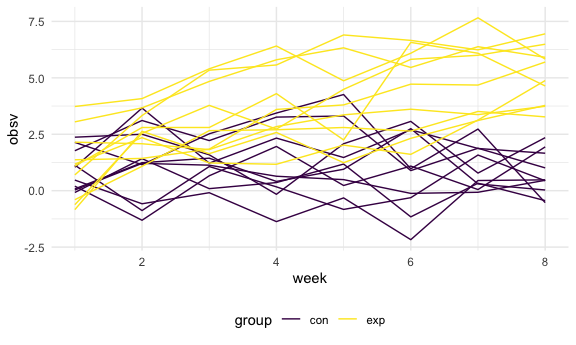
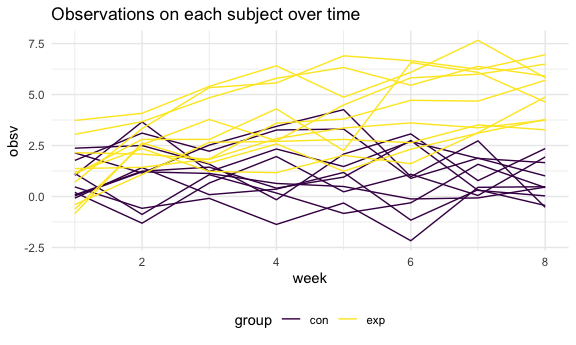
completed p3

diff --git a/p8105_hw5_cks2143.md b/p8105_hw5_cks2143.md
@@ -37,7 +37,7 @@ homicide_df =
     ##   disposition = col_character()
     ## )
 
-**Data exploration**
+**Data exploration.**
 
 ``` r
 aggregate_df = 
@@ -51,7 +51,7 @@ aggregate_df =
 
     ## `summarise()` ungrouping output (override with `.groups` argument)
 
-**Prop test for a single city**
+**Prop test for a single city.**
 
 ``` r
 prop.test(
@@ -65,7 +65,7 @@ prop.test(
     ##      <dbl>     <dbl>    <dbl>     <int>    <dbl>     <dbl> <chr>     <chr>      
     ## 1    0.646      239. 6.46e-54         1    0.628     0.663 1-sample… two.sided
 
-**Iteration**
+**Iteration.**
 
 ``` r
 results_df = 
@@ -139,12 +139,13 @@ lda_tidydf =
     )
 ```
 
-**Spaghetti plot of observations on each subject over time**
+**Spaghetti plot of observations.**
 
 ``` r
 lda_tidydf %>% 
   ggplot(aes(x = week, y = obsv, group = interaction(id, group), color = group)) + 
-    geom_line()
+    geom_line() +
+    labs(title = "Observations on each subject over time")
 ```
 
 <img src="p8105_hw5_cks2143_files/figure-gfm/unnamed-chunk-6-1.png" width="90%" />
@@ -153,3 +154,107 @@ Based on the spaghetti plot, we can observe that observation values for
 the experimental group are generally higher than the control group. The
 experimental group shows some increase in values over time while the
 control group remains relatively stable.
+
+## Problem 3
+
+**Create and run simulation.**
+
+``` r
+sim_ttest = 
+  function(n = 30, mu, sigma = 5) {
+    
+      sim_data = 
+        tibble(
+          x = rnorm(n = 30, mean = mu, sd = sigma)
+        )
+      
+sim_data %>% 
+  t.test() %>% 
+  broom::tidy() %>% 
+  select(estimate, p.value)
+  }
+
+sim_results = 
+  tibble(mu = c(0,1,2,3,4,5,6)) %>%
+  mutate(
+    output_lists = map(.x = mu, ~ rerun(5000, sim_ttest(n = 30, mu = .x))),
+    estimate_df = map(output_lists, bind_rows)
+    ) %>%
+  select(-output_lists) %>% 
+  unnest(estimate_df) %>% 
+  mutate(decision = ifelse(p.value<0.05, "reject", "fail to reject"))
+```
+
+**Plot showing the proportion of times the null was rejected.**
+
+``` r
+plot_power =
+  sim_results %>% 
+  group_by(mu) %>%
+  summarise(
+    n = n(),
+    reject = sum(p.value < 0.05)/n) %>% 
+  ggplot(aes(x = mu, y = reject)) +
+  geom_point() +
+  geom_smooth(se = FALSE) +
+  labs(
+    x = "effect size",
+    y = "power"
+  )
+
+plot_power
+```
+
+<img src="p8105_hw5_cks2143_files/figure-gfm/plot_power-1.png" width="90%" />
+
+Based on this plot, we can observe that as effect size increases, power
+(proportion of times null was rejected) increases.
+
+**Plot showing the average estimate of μ̂ on the y axis and the true
+value of μ on the x axis.**
+
+``` r
+plot_1 =
+  sim_results %>% 
+  group_by(mu) %>% 
+  summarise(avg_estimate = mean(estimate)) %>% 
+  ggplot(aes(x = mu, y = avg_estimate)) +
+  geom_point() +
+  geom_line() +
+    labs(
+    x = "true mean",
+    y = "average estimate",
+    title = "Avg estimate vs. true mean"
+  ) 
+```
+
+**Plot showing the average estimate of μ̂ only in samples for which the
+null was rejected on the y axis and the true value of μ on the x axis.**
+
+``` r
+plot_2 =
+  sim_results %>% 
+  group_by(mu) %>%
+  filter(decision == "reject") %>%
+  summarise(
+    avg_estimate = mean(estimate)) %>% 
+  ggplot(aes(x = mu, avg_estimate)) +
+  geom_point() +
+  geom_line() +
+  labs(x = "true mean",
+       y = "average estimate",
+       title = "Samples when the null is rejected")
+
+plot_1 + plot_2
+```
+
+<img src="p8105_hw5_cks2143_files/figure-gfm/unnamed-chunk-8-1.png" width="90%" />
+
+For all samples, the average estimate of the mean is equal to the true
+mean.
+
+When the null is rejected, the average estimates of the mean are higher
+than the true mean is \>0 and \<4. The estimates become equal to the
+true mean when it is 4 or greater. This is likely because as power
+increases, the average estimate of the mean gets closer to the true mean
+among the samples when the null hypothesis is rejected.
